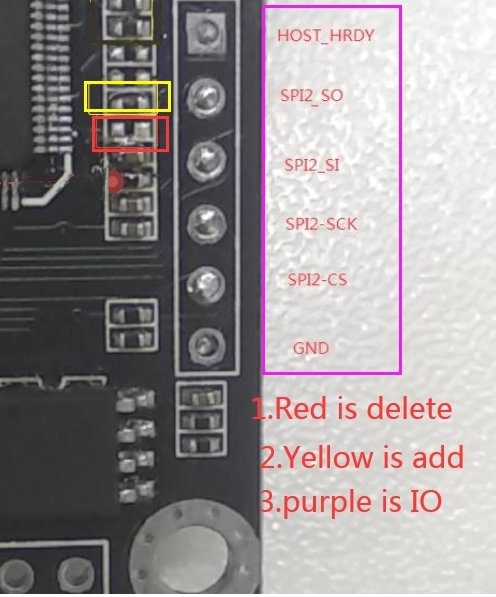
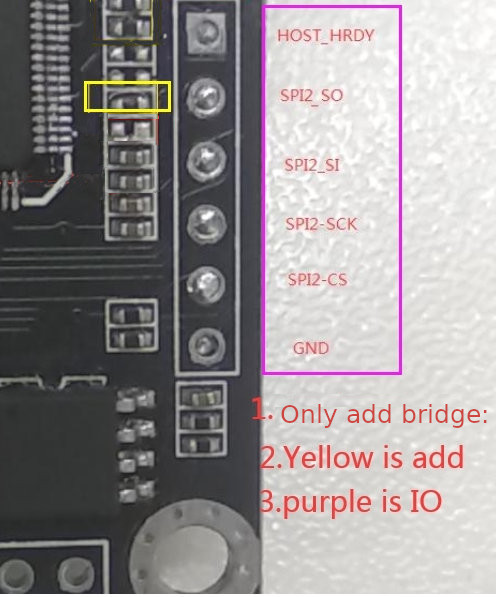
Update Cinread HW modification (bridge)

Changed region(s): [[0.5444, 0.6633, 0.9677, 0.7236], [0.1815, 0.1809, 0.3629, 0.3317]]

diff --git a/README.md b/README.md
@@ -18,7 +18,7 @@ Please refer to the following image to the correct SPI labels:
 
 ![Corrected labels](components/assets/cinread-correct-IO.jpg)
 
-Important: I only tested this with one Cinread PCB but there are now 3 more coming. So it's possible that the SPI initial issue I had was mostly sticking to the wrong labels, sending SPI Clock via MOSI, which will of course never work. On the new ones that are coming I will try to send SPI data without making any hardware modifications and just using the right PINs.
+Important: Please mind that the Cinread PCB has the SPI labels wrong. And that it needs a 0 OHM 0402 in the position marked as yellow. 6th counting from below at the SO Slave Output pin is please check the image carefully and place it in the right side. This will enable SPI.
 
 ## Ideas that could be added to the schematic
 
